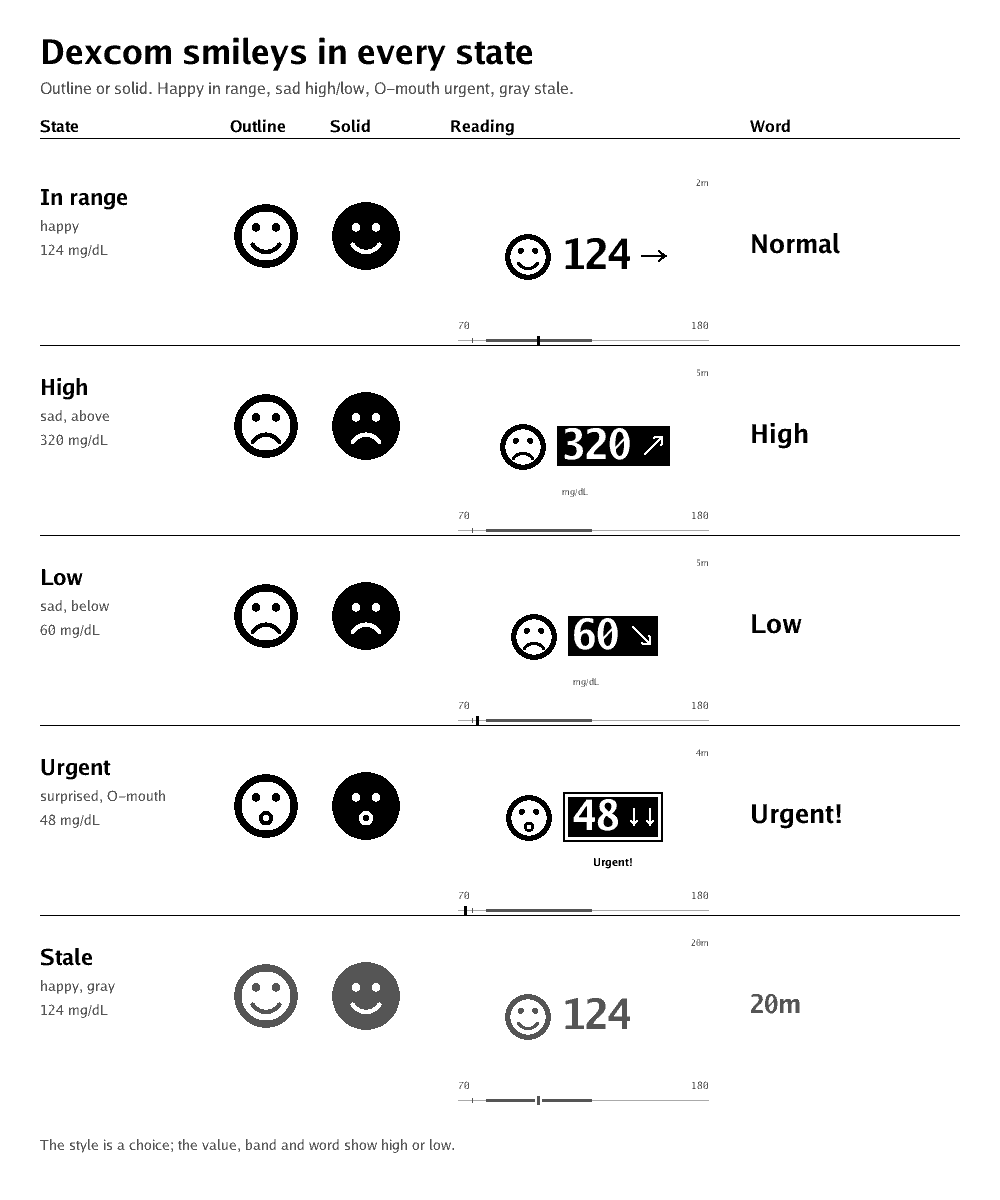
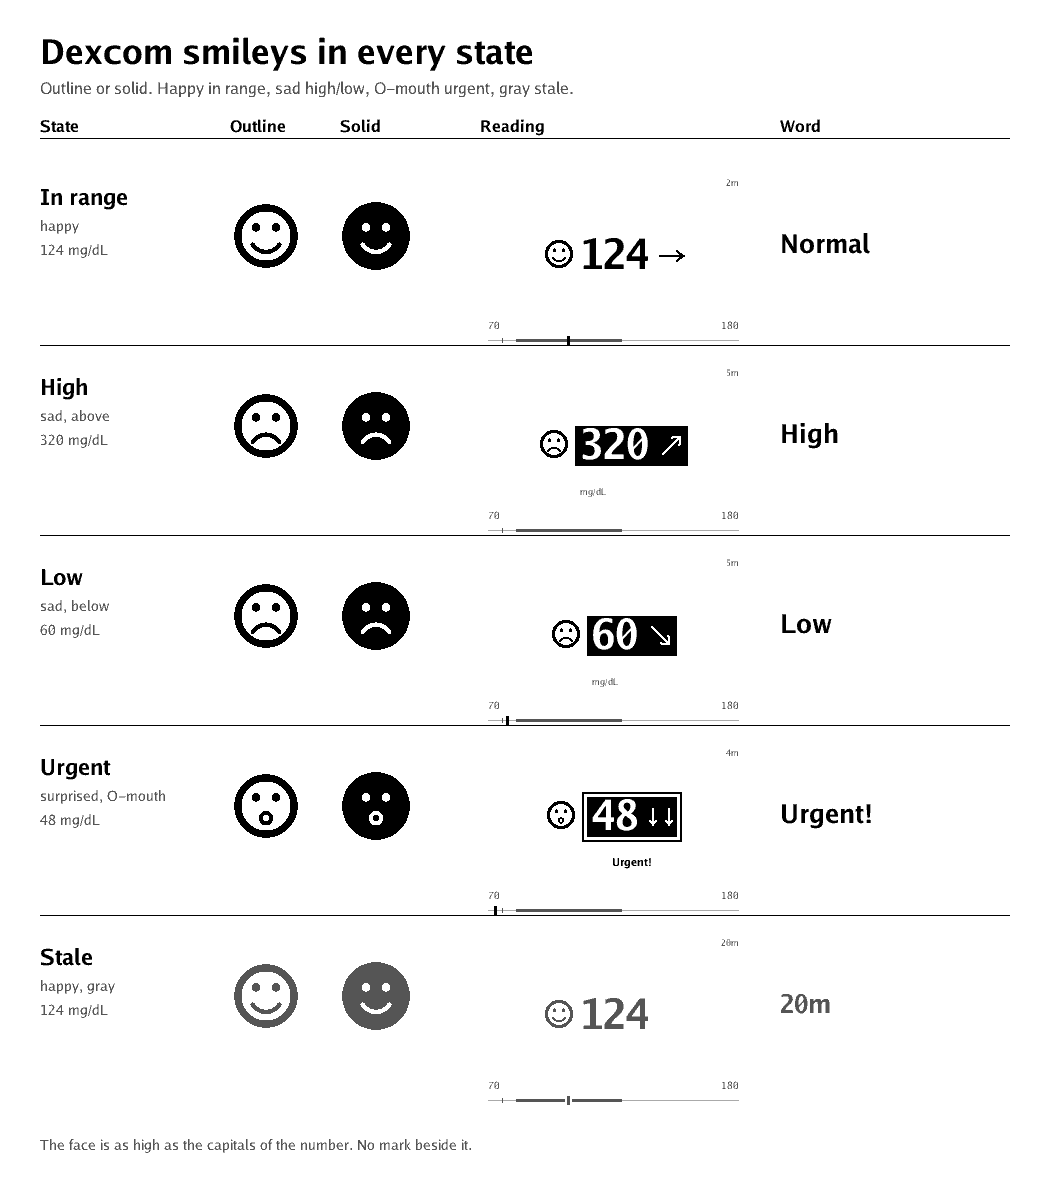
Fit the smiley to the reading [#496] (#497)
- size the face like the capitals of the number
- keep the urgent low a surprised O-mouth with no mark
- update the docs, the example page and the screenshots
- raise the dexcom plugin version

Closes #496

diff --git a/plugins/cmd/dexcom/widgets.go b/plugins/cmd/dexcom/widgets.go
@@ -16,6 +16,10 @@ import (
 	"github.com/maehld/paperboy/sdk/render"
 )
 
+// signShare makes the smiley as high as the digits: the face fills 94 % of its
+// square and the capitals 72 % of the font size.
+const signShare = 0.72 / 0.94
+
 var (
 	ink   = color.Gray{0}
 	mid   = color.Gray{85}
@@ -92,32 +96,34 @@ func (d *dexcom) glucoseWidget(req *plugin.Request, w plugin.WidgetRequest, img 
 		signColor = mid
 	}
 
-	// The sign takes a column on the left of the reading. When the cell is too
-	// small, the sign drops and the value stays.
+	// The smiley follows the hero of the page, so it grows with the reading
+	// and the panel. Only a cell that is too small drops it.
+	scale := design.NewScale(req.TextPx(w), b.Dy())
+	hero := min(scale.Hero, float64(b.Dy())*0.46)
 	content := b
-	signSize := 0
+	signH, signW := 0, 0
 	if signStyle != "none" {
-		signSize = min(int(float64(b.Dy())*0.32), 72)
-		if signSize < minSign || b.Dx() < signSize*2 {
-			signSize = 0
+		signH = int(math.Round(hero * signShare))
+		signW = signH
+		if signH < minSign || b.Dx() < signW*2 {
+			signH, signW = 0, 0
 		} else {
-			content.Min.X += signSize + max(4, signSize/6)
+			content.Min.X += signW + max(4, signH/6)
 		}
 	}
 
 	if !ok {
-		if signSize > 0 {
-			y := b.Min.Y + (b.Dy()-signSize)/2
-			drawSign(img, image.Rect(b.Min.X, y, b.Min.X+signSize, y+signSize), state, solid, signColor)
+		if signH > 0 {
+			y := b.Min.Y + (b.Dy()-signH)/2
+			drawSign(img, image.Rect(b.Min.X, y, b.Min.X+signW, y+signH), state, solid, signColor)
 		}
 		textFit(img, req.T("keine Daten", "no data"), content.Min.X+content.Dx()/2, b.Min.Y+b.Dy()/2,
 			req.TextPx(w), false, mid, render.Center, content.Dx())
 		return nil
 	}
 
-	scale := design.NewScale(req.TextPx(w), b.Dy())
 	val := d.value(req, l, last.value)
-	size := min(scale.Hero, float64(b.Dy())*0.46)
+	size := hero
 	arrowSize := int(size * 0.6)
 	maxW := float64(content.Dx() - arrowSize - b.Dy()/8 - 2*pad)
 	for size > render.MinSize && float64(render.Measure(val, size, true)) > maxW {
@@ -128,21 +134,22 @@ func (d *dexcom) glucoseWidget(req *plugin.Request, w plugin.WidgetRequest, img 
 	total := tw + arrowSize + b.Dy()/16
 	x := content.Min.X + (content.Dx()-total)/2
 	signX := b.Min.X
-	if signSize > 0 {
+	if signH > 0 {
 		// Keep the sign next to the value and centre the pair including the
 		// box, so a wide cell does not leave a gap between them.
-		gap := max(4, signSize/6)
-		group := signSize + gap + total + 2*pad
+		gap := max(4, signH/6)
+		group := signW + gap + total + 2*pad
 		signX = b.Min.X + (b.Dx()-group)/2
-		x = signX + signSize + gap + pad
+		x = signX + signW + gap + pad
 	}
 	baseline := b.Min.Y + int(float64(b.Dy())*0.56)
 	if lvl == "urgent" {
 		baseline = b.Min.Y + int(float64(b.Dy())*0.50)
 	}
-	if signSize > 0 {
-		cy := baseline - int(size*0.30)
-		drawSign(img, image.Rect(signX, cy-signSize/2, signX+signSize, cy+signSize/2), state, solid, signColor)
+	if signH > 0 {
+		// Centre the face on the capitals of the number.
+		cy := baseline - int(math.Round(size*0.36))
+		drawSign(img, image.Rect(signX, cy-signH/2, signX+signW, cy+signH/2), state, solid, signColor)
 	}
 
 	fg := ink

diff --git a/docs/adr/0177-the-smiley-is-as-high-as-the-number.md b/docs/adr/0177-the-smiley-is-as-high-as-the-number.md
@@ -1,0 +1,50 @@
+# 0177: The smiley is as high as the number
+
+- Status: Accepted, implemented
+- Date: 2026-11-27
+- Builds on: [ADR 0176](0176-child-friendly-signs.md) (the smiley family), [ADR 0151](0151-a-shared-design-language-for-plugin-widgets.md) (the type scale), [ADR 0050](0050-physical-scaling-by-display-ppi.md) (points and ppi)
+- Answers: issue #496
+
+## Context
+
+ADR 0176 introduced the smiley family. The implementation kept a fixed 72 px
+cap from an earlier draft. On the e1003 the number grows with the type scale,
+but the face stayed at 72 px, so it looked small next to the reading. The
+merged code also dropped the exclamation mark when the O-mouth arrived; the
+docs and the collage still showed it.
+
+## Decision
+
+1. **The face is as high as the capitals of the number.** The capitals fill
+   72 % of the font size, the face fills 94 % of its square. The square is
+   therefore 0.72 / 0.94 ≈ 0.77 of the value size.
+2. **The face and the reading stay one pair.** The sign holds a column on the
+   left; the value box and its ring count into the gap. A face below 24 px
+   drops, and the value always stays.
+3. **The urgent low is the surprised O-mouth alone.** The value box, the ring
+   and the word carry the alarm. No mark sits beside the face.
+4. **The style stays a choice.** `outline` or `solid` comes from the page
+   ([ADR 0176](0176-child-friendly-signs.md)). The size follows the number, not
+   the cell; the value's Hero cap stays.
+
+## Alternatives
+
+- **Keep the 72 px cap.** It is simple, but a large panel and a large reading
+  get a small face.
+- **Size the face like the cell.** It would fill a huge cell, but the face would
+  lose its relation to the number and the page's type scale.
+- **Keep the exclamation mark.** It was a leftover from before the O-mouth; the
+  face already names the urgent low, and the value box and the word carry the
+  alarm.
+- **Change the Hero itself.** Whether the number grows beyond the type scale is
+  a separate decision about the design language; this ADR does not take it.
+
+## Consequences
+
+- The face follows the number on every panel. The e1003 gets a face at the
+  number's height instead of a fixed 72 px.
+- The number still follows the Hero of the type scale. A very large cell keeps
+  its empty room; the face does not drive the number.
+- The docs, the collage and the screenshots lose the leftover mark and show the
+  face at the number's height.
+- The plugin version rises, because the rendering changes.

diff --git a/docs/adr/README.md b/docs/adr/README.md
@@ -210,6 +210,7 @@ How plugins are written, hosted and versioned. See [`05-plugins.md`](../design/0
 | [0173](0173-a-charging-mark-over-an-empty-battery.md) | A charging mark over an empty battery | Accepted, implemented; supersedes point 4 of [ADR-0121](0121-segmented-battery-gauge.md) and amends point 6 of [ADR-0166](0166-a-shared-battery-gauge.md) |
 | [0174](0174-the-glucose-profile-and-the-tight-range.md) | The glucose profile and the tight range | Accepted, implemented; adds the `agp` widget and moves the target range to the consensus, builds on [ADR-0099](0099-glucose-readings-from-the-dexcom-share-service.md) |
 | [0176](0176-child-friendly-signs.md) | Child-friendly smileys in the dexcom plugin | Accepted, implemented; adds the happy, sad and surprised O-mouth faces and the `sign` style `outline` or `solid`; a stale reading loses the alarm box |
+| [0177](0177-the-smiley-is-as-high-as-the-number.md) | The smiley is as high as the number | Accepted, implemented; sizes the face like the capitals of the reading (0.72/0.94 of the value), keeps the urgent O-mouth without a mark, and corrects the docs and the collage |
 
 ## Delivery and releases
 

diff --git a/docs/plugins/dexcom.md b/docs/plugins/dexcom.md
@@ -116,9 +116,10 @@ The tight range uses the happy face like the target range. A very high reading
 uses the sad face like a high one. `ranges`, `agp` and `values.tight` carry the
 clinical detail.
 
-A stale or missing reading draws the value and the smiley in gray. The smiley is
-at least 24 px. When the cell is too small, it drops and the value always stays.
-High and low share the face; the word and the band show the direction.
+A stale or missing reading draws the value and the smiley in gray. The face is
+about as high as the capitals of the number and at least 24 px, so it grows with
+the value ([ADR 0177](../adr/0177-the-smiley-is-as-high-as-the-number.md)). When
+the cell is too small, the smiley drops and the value always stays. High and low share the face; the word and the band show the direction.
 
 The text page needs no smiley. Its labels can carry the CGRAM glyphs of
 [ADR 0155](../adr/0155-cgram-glyphs-on-hd44780-text-displays.md):
